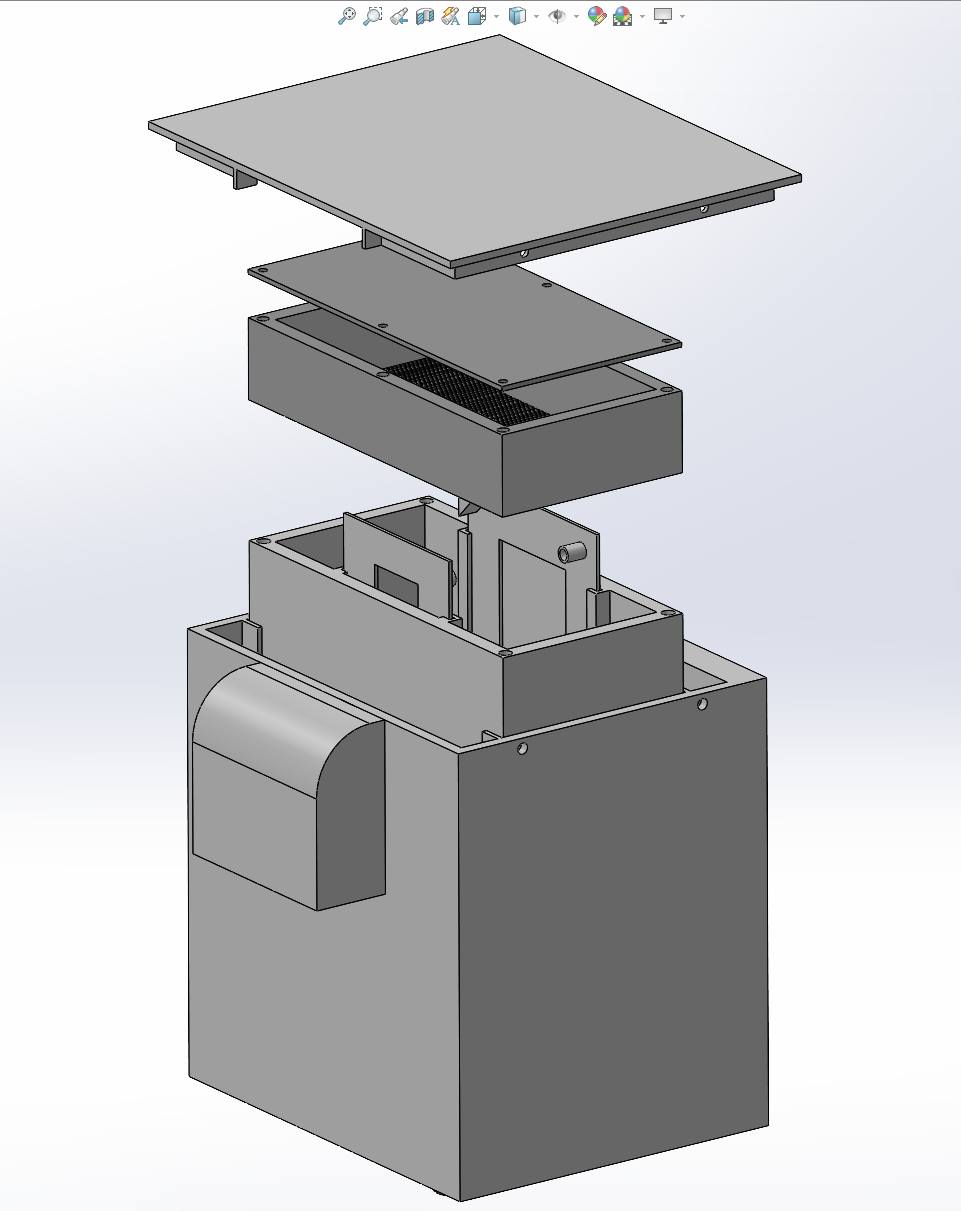
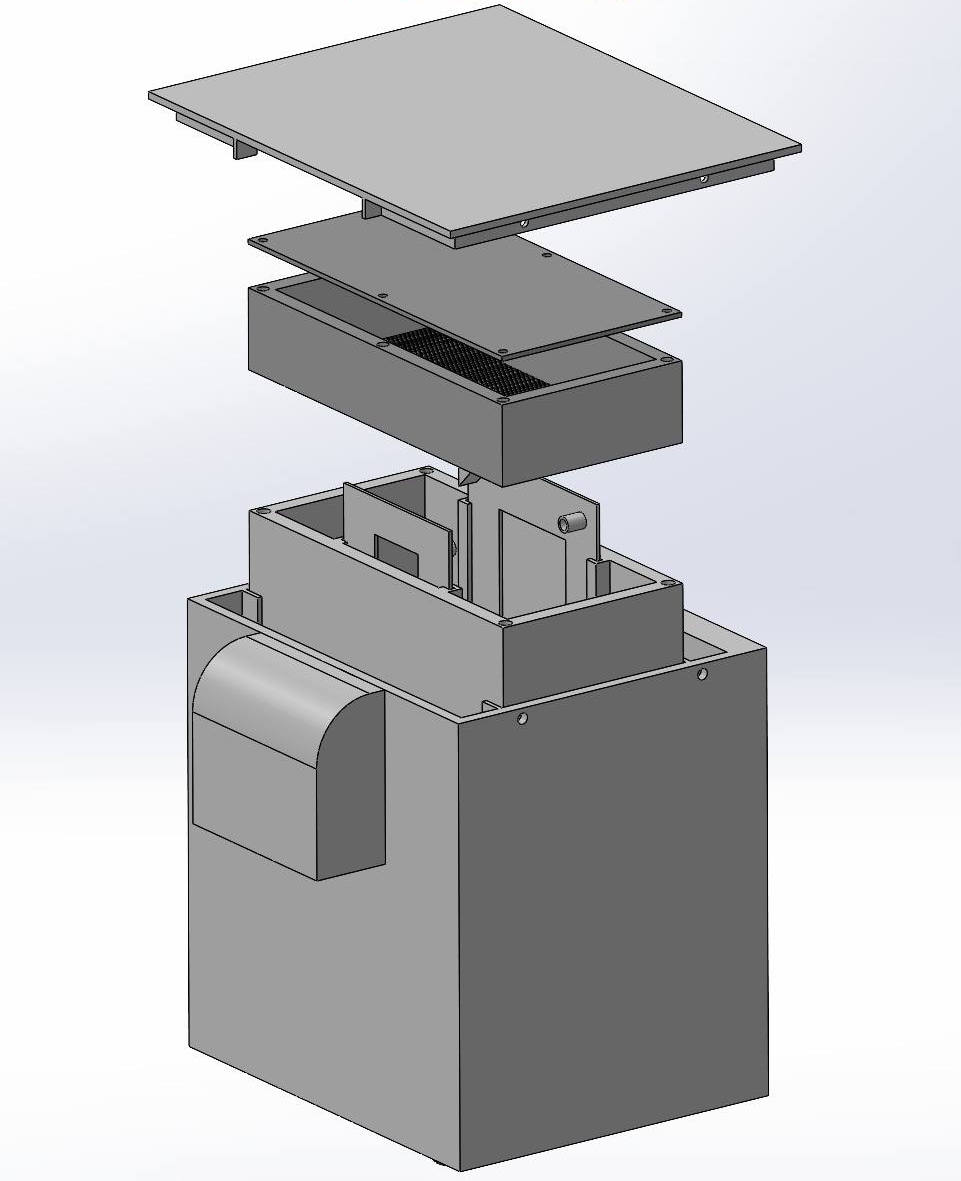
garden sensor project finished

diff --git a/_projects/garden-sensors.md b/_projects/garden-sensors.md
@@ -1,9 +1,9 @@
 ---
 layout: single
 title: "Remote Garden Soil Sensor Project"
-excerpt: "Soil moisture sensing"
+excerpt: "Personal Project - Summer 2025"
 header:
-    teaser: /assets/images/gardensensor/garden-thumb.jpg
+    teaser: /assets/images/gardensensor/proofofconcept.jpg
 date: 2025-08-15
 author_profile: true
 #classes: wide
@@ -15,6 +15,7 @@ author_profile: true
 The goal of this project was to allow my wife to monitor the moisture levels of her vegetable garden soil during the summer without needing to go outside and physically check it.
 
 ![Proof of concept](/assets/images/gardensensor/proofofconcept.jpg){: width="600px" }
+<br><small>Proof of concept<br></small>
 
 [Hardware](#hardware)
 [Electrical](#electrical)
@@ -30,19 +31,65 @@ The goal of this project was to allow my wife to monitor the moisture levels of 
 - Rasberry PI server
 
 ## Hardware
+
+The major hardware portion of this project consisted of an outdoor enclosure to house the electronics required for the soil moisture sensors. It consisted of a exterior shell with exhaust fan port, and interior enclosure with a silica gel top to control moisture, and two electronics sleds that held the custom PCB and solar battery controller.
+
+The enclosure was 3D printed in a white PETG for weather and UV resistance. The housing itself was mounted to an amazon bird house stand that could raise the enclosure to deck height to ensure adequate sun exposure for the solar panels as well as reduced wire lengths.
+
 ![CAD](/assets/images/gardensensor/cadbase.jpg){: width="600px" }
 <br><small>CAD Assembly of base station<br></small>
 
-![CAD](/assets/images/gardensensor/basefront.jpg){: style="width: 600px; height: 600px; object-fit: cover; object-position: top;" }
+![Assembled Front](/assets/images/gardensensor/basefront.jpg){: style="width: 600px; height: 600px; object-fit: cover; object-position: top;" }
 <br><small>Assembled base station front view<br></small>
 
-![CAD](/assets/images/gardensensor/baserear.jpg){: width="600px" }
+![Assembled Rear](/assets/images/gardensensor/baserear.jpg){: width="600px" }
 <br><small>Assembled base station rear view<br></small>
 
 <small>[Top](#project-overview)</small>
 
 ## Electrical
 
+The outdoor base station was powered by a solar power module that charged a single 18650 battery and provided the required 5V for the ESP32 board. A temperature and humidity sensor were added to monitor the temperature of the enclosure. Two cooling fans were controlled by NPN transistors and an SR latch. This allowed the fans to be turned on and held on at a set temperature without needing to keep the ESP32 awake between sensor readings saving power. To measure the soil moisture levels, 5 capacitive soil sensors were used. 
+
+![Fritzing](/assets/images/gardensensor/fritzing.jpg){: width="600px" }
+
+![Fritzing Zoomed](/assets/images/gardensensor/fritzingzoomed.jpg){: width="600px" }
+<br><small>Wiring Layout<br></small>
+
+![PCB Top](/assets/images/gardensensor/pcbtop.jpg){: width="600px" }
+
+![PCB Bottom](/assets/images/gardensensor/pcbbottom.jpg){: width="600px" }
+<br><small>PCB Board<br></small>
+
+![Enclosure](/assets/images/gardensensor/enclosure.jpg){: width="600px" }
+<br><small>Electrical Enclosure<br></small>
+
+<small>[Top](#project-overview)</small>
+
 ## Software
 
+[Github](https://github.com/HalJamieson/Garden_Sensor)
+
+The firmware for the ESP32s was written using the Platform IO extension for VS Code. The exterior ESP32 was programmed to wake from sleep every 20 minutes an obtain an enclosure temperature with the 5 soil sensors being read on each hour. This data would then be transmitted to the interior ESP32 in a struct containing the soil readings, enclosure temperature and humidity, as well as the two cooling fan states. To save power, the struct would not be transmitted every wake cycle, a transmission would only occur if there was a temperature change of 5 degree Celsius, new soil values or a change in cooling fan states.
+
+The interior ESP32 controlled a display that cycled between an overview page and zone reporting. The overview page showed fan states, temperature, humidity, time since last packet and colour coded zone numbers (red for dry, yellow for medium, and green for wet). The zone reporting page showed the exact capacitive values being reported by the sensors.
+
+![Display](/assets/images/gardensensor/display.jpg){: width="600px" }
+
+![Display](/assets/images/gardensensor/display2.jpg){: width="600px" }
+<br><small>Interior Display<br></small>
+
+Once the interior ESP32 received the values, it would update its display and push the updated information to a small local web server being hosted on a Raspberry PI. The web server would pair the data with current weather conditions (temperature, humidity, cloud cover) using an openweathermap.org API and retain it in a csv log. 
+
+![Raspberry Pi](/assets/images/gardensensor/dashboard.jpg){: width="600px" }
+<br><small>Raspberry PI Dashboard Server <br></small>
+
+<small>[Top](#project-overview)</small>
+
 ## Outcomes
+
+The most significant issue with this project surrounded the soil sensors. They struggled with the outdoor conditions despite efforts to seal the electronics in silicone water proofing. Moisture accumulation resulted in two of the sensors failing with a few weeks of use. Future iterations could benefit from a conformal coating, however, the sensors are primary composed of PCB board and would likely result in failures from moisture regardless. The should almost be treated as a consumable component with future designs centred around ease of servicing and replacing each sensor as the fail. Resistors were later added on each sensors ground wire as the failure of the sensor resulted in a dead short that caused the ESP32 to shutdown completely. 
+
+The outdoor enclosure performed well otherwise. It was able to maintain a reliable charge with varying weather conditions and did not experience any shut downs due to power loss in the 4 weeks it was run. 
+
+<small>[Top](#project-overview)</small>

diff --git a/_pages/projects.md b/_pages/projects.md
@@ -8,6 +8,7 @@ classes: wide
 author_profile: true
 sort_by: date
 sort_order: reverse
+show_date: true
 ---
 
 
